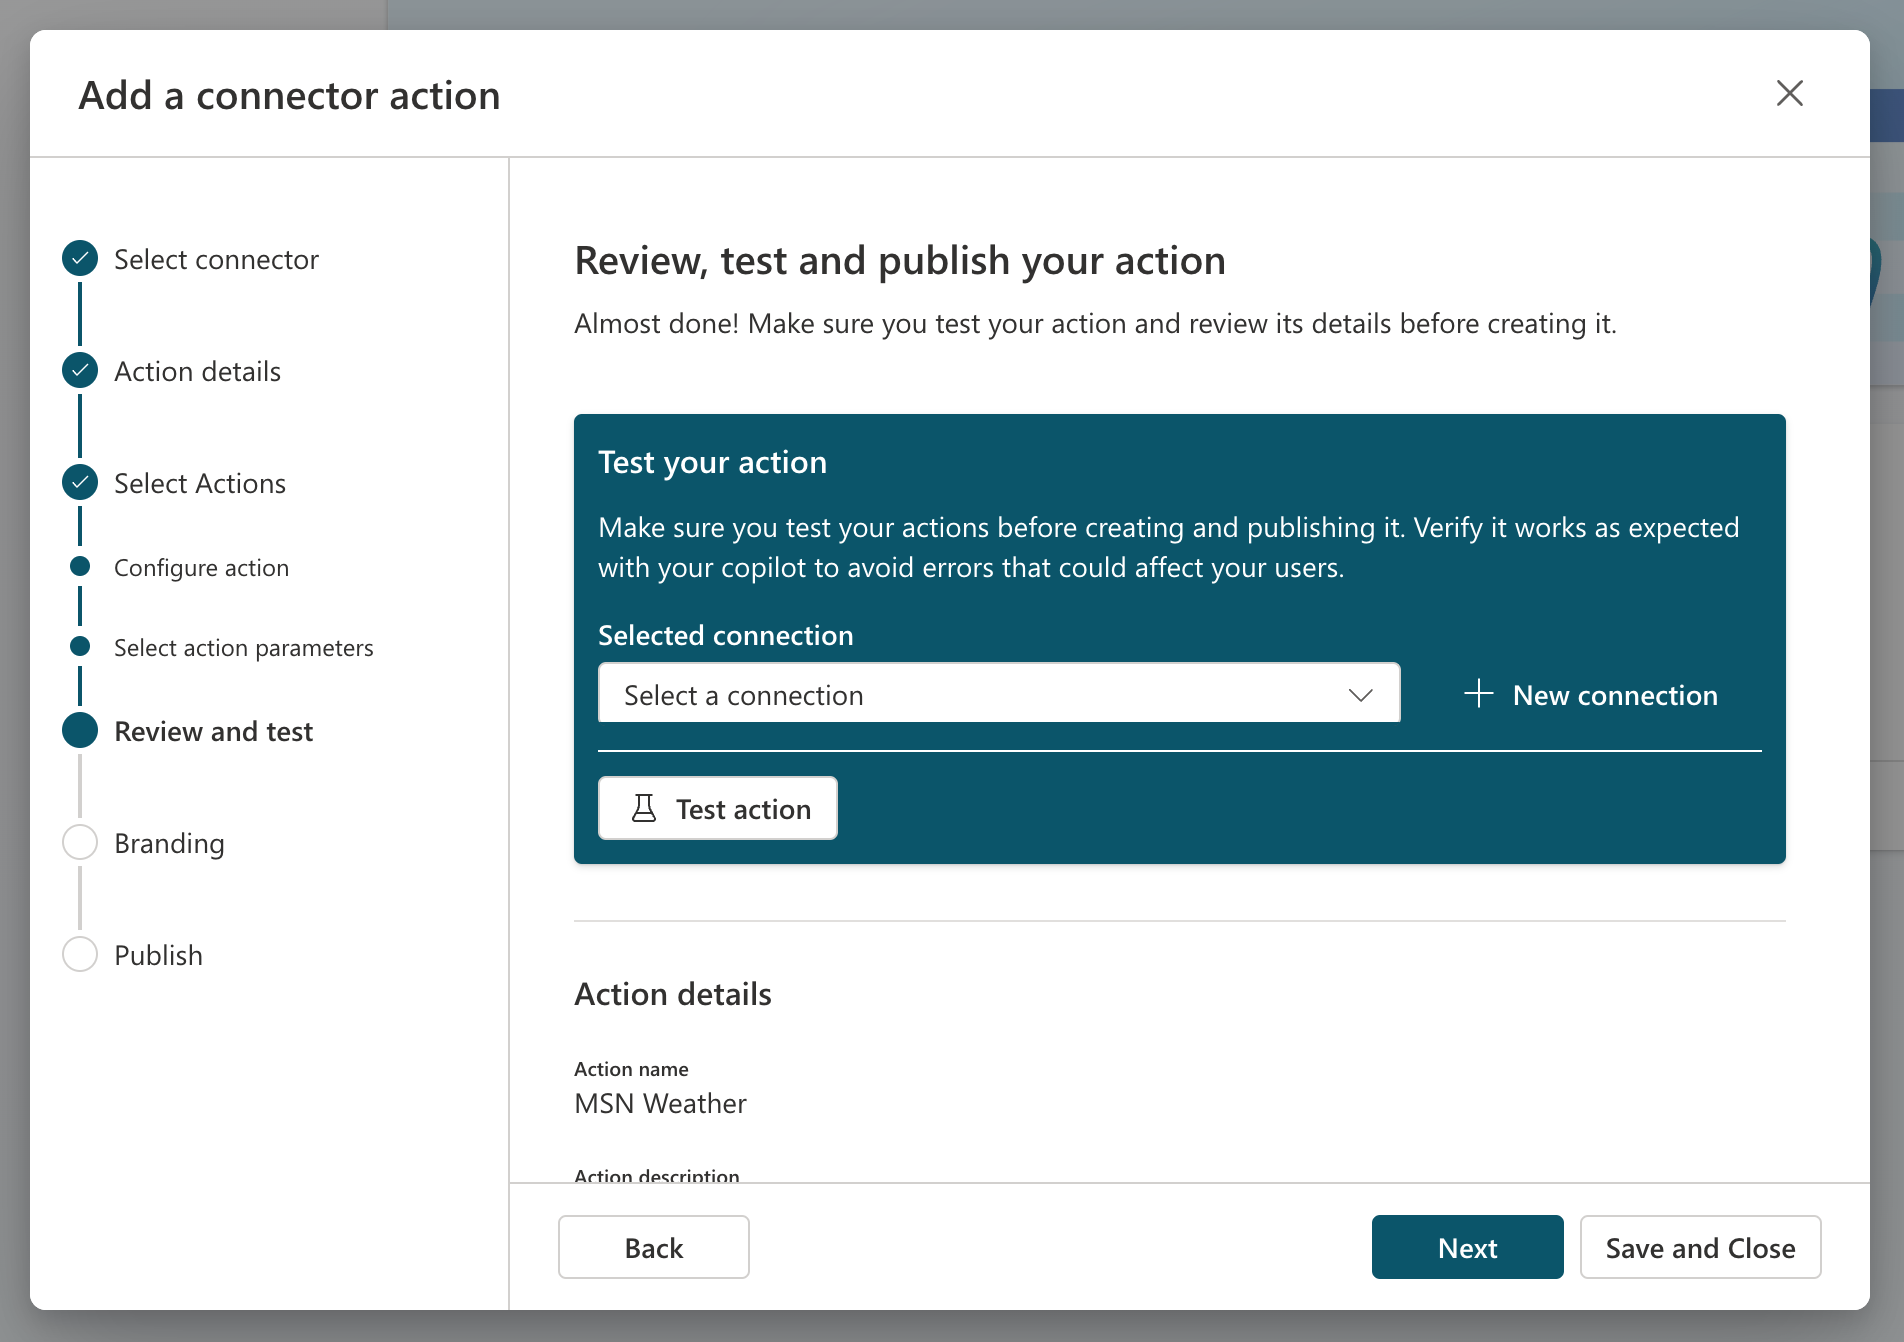
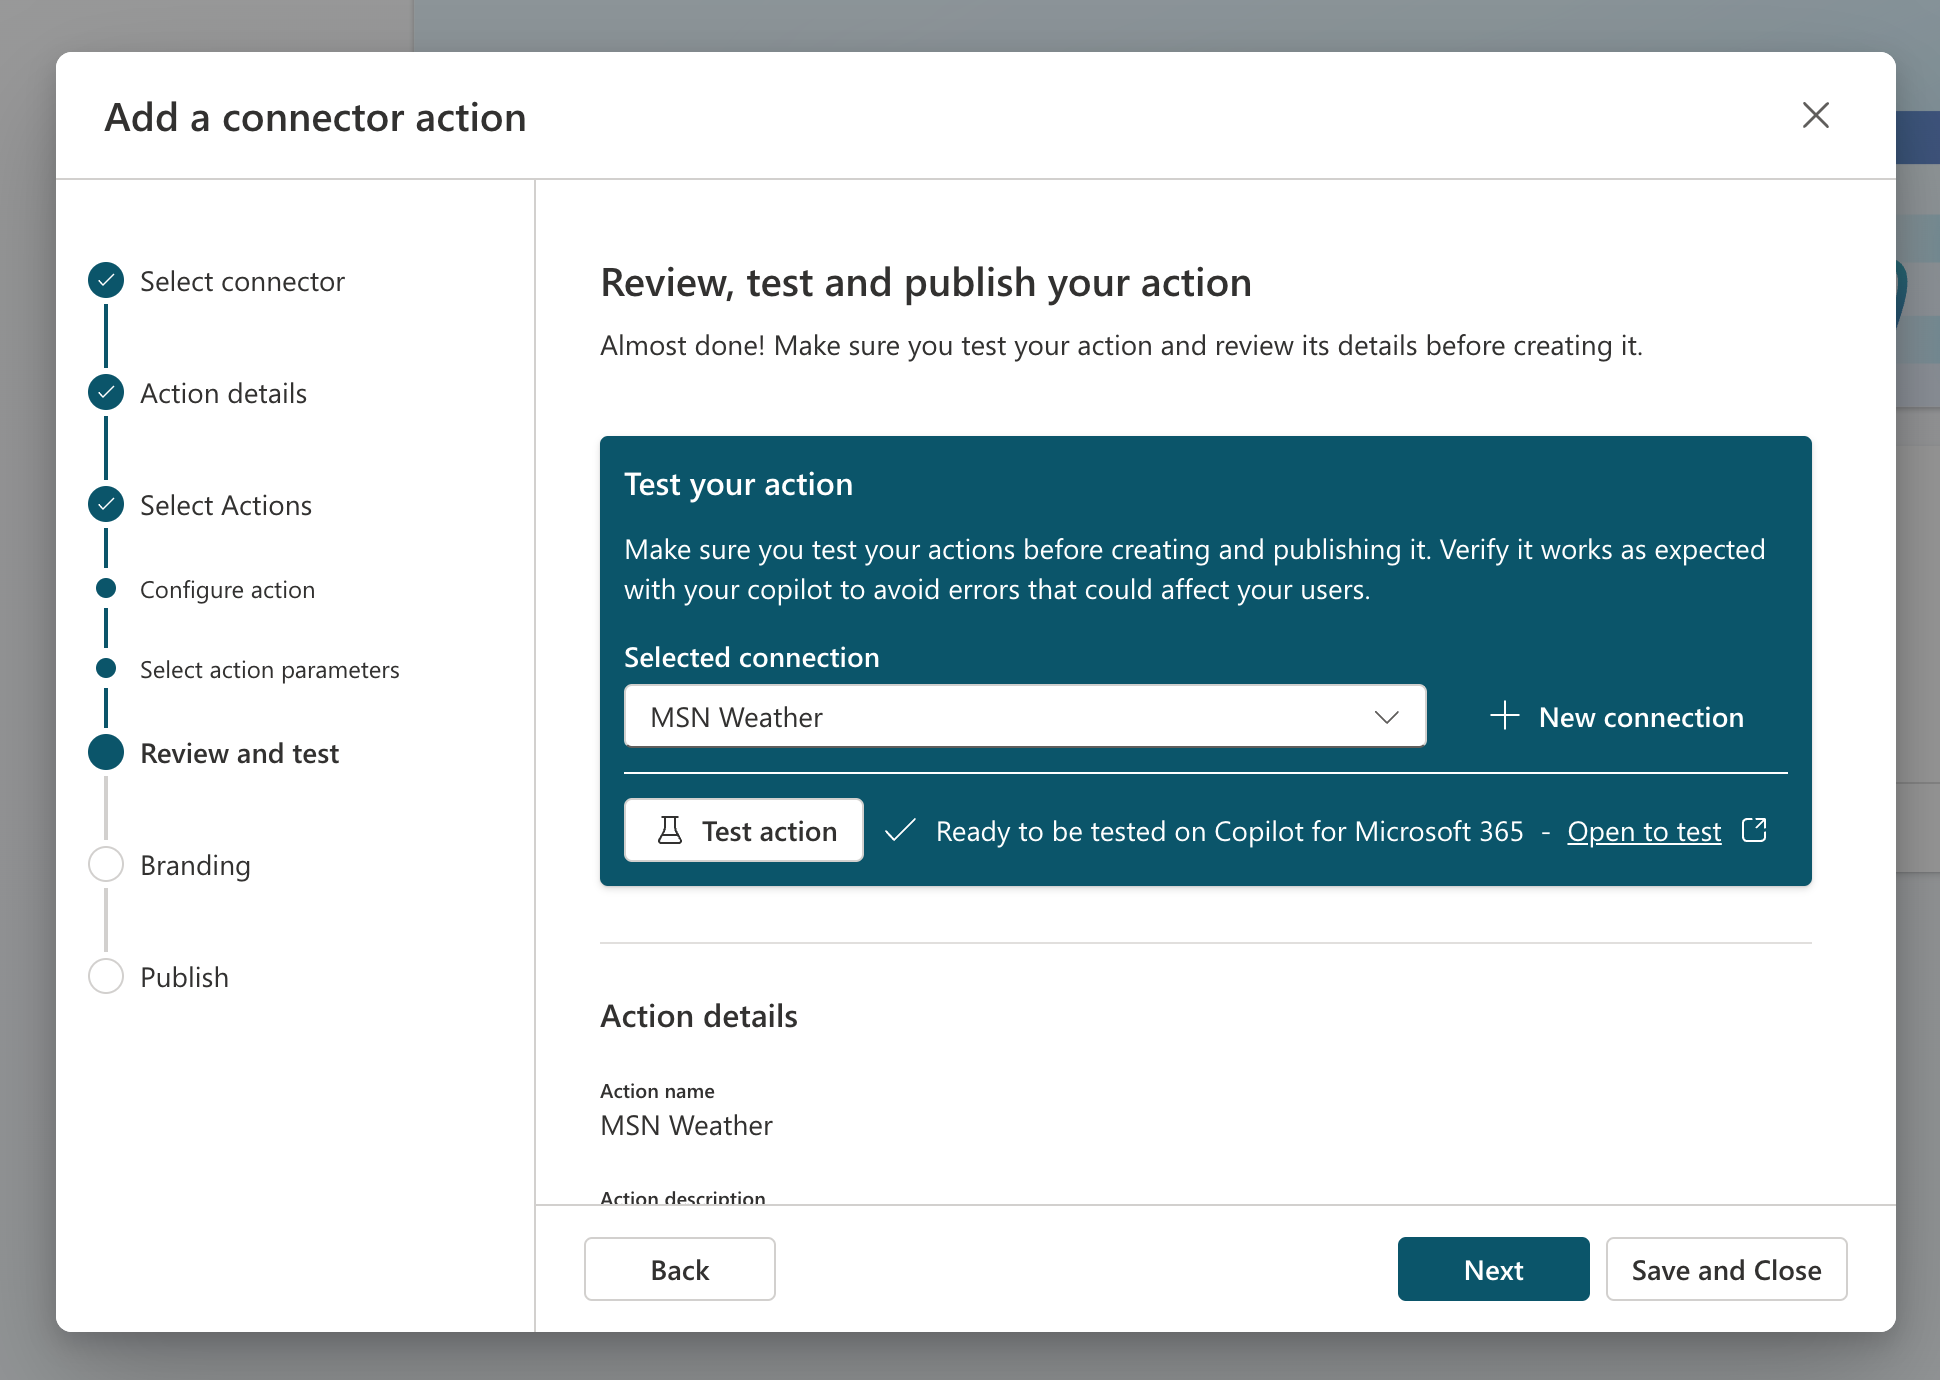
Update module

diff --git a/Instructions/Labs/Connector-actions/execise-1.md b/Instructions/Labs/Connector-actions/execise-1.md
@@ -46,8 +46,54 @@ Now it's time for task 2, and we will work on testing the connector action. Leav
 
 In this task, you will test the connector action you configured in task 1 in Copilot for 365 in Microsoft Teams.
 
+  :::image type="content" source="../Media/connect-test.png" alt-text="The review, test and publish your action section of the connector action wizard.":::
+
 1. **Create a connection** for the MSN Weather connector if you don't have one yet or select an existing one.
+1. Select the **Test action** button.
 
-    :::image type="content" source="../Media/connect-test.png" alt-text="The review, test and publish your action screen in the connector action wizard.":::
+    > [!NOTE]
+    > This will trigger a process where your connector action will get deployed to Microsoft Teams so that you can test it out.
 
-1.
+1. Select **Open to test** to test.
+
+    > [!NOTE]
+    > This will open a new browser tab and it will try to launch Microsoft Teams.
+
+1. Feel free to select **Cancel** in the pop-up where it tries to launch Microsoft Teams.
+1. Select **Use the web app instead**.
+
+    > [!NOTE]
+    > This will open Copilot for Microsoft 365 in Microsoft Teams.
+
+1. Select the **plugin** icon next to the send icon.
+1. Enable the **Test-MSN Weather** plugin.
+
+    > [!NOTE]
+    > This will show the following message.
+
+    :::image type="content" source="../Media/test-msn-weather.png" alt-text="The message displays that the Test-MSN Weather plugin is on.":::
+
+1. Replace your location and pick celsius or fahrenheit in the following message and send it to Copilot for Microsoft 365.
+
+    ```text
+    What is the current weather in <your location> in <celsius/fahrenheit> according to MSN Weather?
+    ```
+
+1. If all has gone well, you should see something like this:
+
+      :::image type="content" source="../Media/msn-weather-result.png" alt-text="A screenshot of an example message and answer. The plugin responds with the current weather in Utrecht, The Netherlands in celsius.":::
+
+## Task 3: Save the action and make it available to more people
+
+In this task, you will save the connector action and publish it.
+
+Let's pick up where we left off in Copilot Studio.
+
+1. Select **Next** in the wizard and the connector action will be published.
+
+    > [!NOTE]
+    > In the next screen, you will be able to go to the details screen or save and close.
+
+      :::image type="content" source="../Media/msn-weather-result.png" alt-text="A screenshot of an example message and answer. The plugin responds with the current weather in Utrecht, The Netherlands in celsius.":::
+
+1. Select **Save and Close**.
